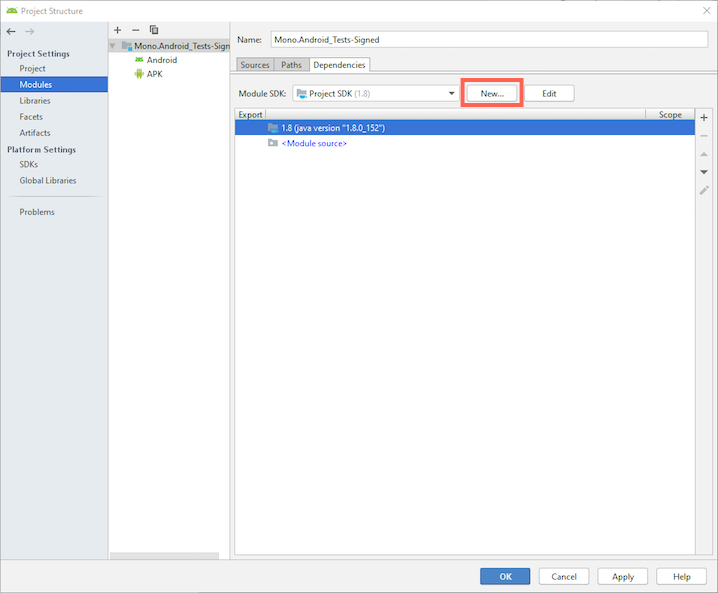
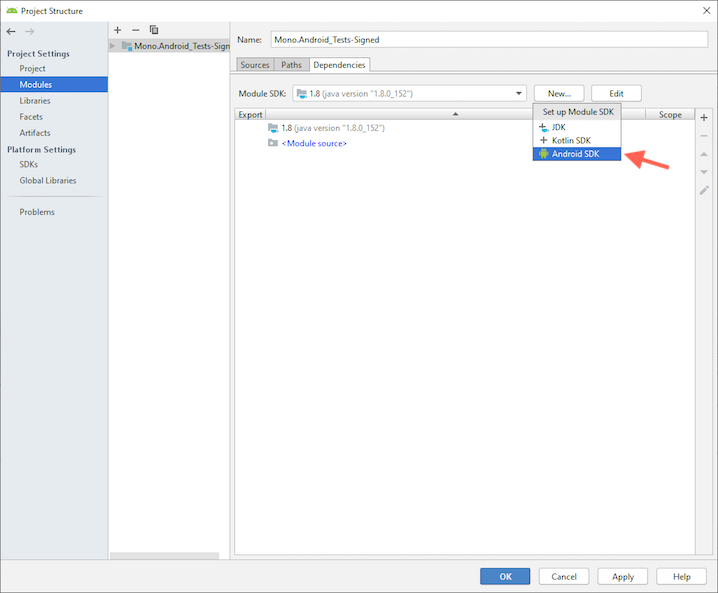
[docs] Save DevelopmentTips updates draft

diff --git a/Documentation/workflow/DevelopmentTips.md b/Documentation/workflow/DevelopmentTips.md
@@ -78,28 +78,34 @@ it on a particular device.
     **Profile or debug APK** on the start window or the **File > Profile or
     Debug APK** menu item.
 
-    ![Profile or debug in the Android Studio start window](../images/android-studio-attach-debugger.png)
+    ![Profile or debug in the Android Studio start
+      window](../images/android-studio-start-window.png)
 
  3. If you skipped the **Android Studio Setup Wizard**, navigate to **File >
     Project Structure > Modules > Mono.Android_Tests-Signed > Dependencies**,
     click **New > Android SDK** next to the **Module SDK**.
 
-    ![New SDK in the Android Studio Project Structure Modules Dependencies window](../images/android-studio-modules-dependencies.png)
+    ![New SDK in the Android Studio Project Structure Modules Dependencies
+      window](../images/android-studio-modules-dependencies.png)
 
     Select the Android SDK folder you're using with Xamarin.Android, and then
     under **Build target**, pick the appropriate Android API to match the APK,
     click **OK**, and then **OK** again.
 
+    ![Create New Android SDK window in Android
+      Studio](../images/android-studio-create-new-android-sdk.png)
+
  4. If an **Indexing** status message appears at the bottom of the Android
-nip   Studio window, wait for it to complete.
+    Studio window, wait for it to complete.
 
  5. Start the app, for example by launching it with or without managed debugging
     from Visual Studio, or by tapping the app on the device.
 
  6. In Android Studio, select **Run > Attach Debugger to Android Process** (at
-    the bottom of the **Run** menu).
+    the bottom of the **Run** menu), or click the corresponding toolbar item.
 
-    ![Attach Debugger to Android Process in Android Studio Run menu](../images/android-studio-attach-debugger.png)
+    ![Attach Debugger to Android Process in Android Studio Run
+      menu](../images/android-studio-attach-debugger.png)
 
  7. Set the **Debugger** to **Native**, select the running app, and click
     **OK**.
@@ -118,11 +124,17 @@ nip   Studio window, wait for it to complete.
 
         (lldb) process handle -p true -n true -s false SIGXCPU SIG33 SIG35 SIGPWR SIGTTIN SIGTTOU SIGSYS
 
-    ![LLDB process handle command in Android Studio LLDB command prompt](../images/android-studio-lldb-no-stop-signals.png)
+    ![LLDB process handle command in Android Studio LLDB command
+      prompt](../images/android-studio-lldb-no-stop-signals.png)
 
 [android-studio]: https://developer.android.com/studio/
 
 ## Adding debug symbols for the default `libmonosgen-2.0`
+
+### Option A: Add the `libmonosgen-2.0.d.so` with symbols as an `@(AndroidNativeLibrary)`
+
+Note: These steps assume that **Android Options > Use Shared Runtime** is
+enabled in the Visual Studio project property pages.
 
  1. Find the Xamarin.Android version you are debugging on
     <https://github.com/xamarin/xamarin-android/tags>, and click that version to
@@ -136,73 +148,124 @@ nip   Studio window, wait for it to complete.
 
  4. Extract the `libmonosgen-2.0.d.so` files from the bundle.  For example, run:
 
-        $ unzip bundle*.zip '*libmonosgen-2.0.d.so'
+        $ unzip bundle*.zip '**libmonosgen-2.0.d.so'
 
- 5. Add the appropriate architecture of `libmonosgen-2.0` into LLDB, using a
-    command similar to:
+    (On Windows, the Git Bash command prompt includes the `unzip` command, so
+    that's one easy way to complete this step.)
 
-        (lldb) target modules add ~/Downloads/lib/xamarin.android/xbuild/Xamarin/Android/lib/armeabi-v7a/libmonosgen-2.0.d.so
+ 5. Add the appropriate architecture of `libmonosgen-2.0.d.so` to
+    the corresponding `lib` subdirectory of the project as described in the
+    [Using Native Libraries][using-native-libraries] documentation.  Then rename
+    the file to `libmonosgen-2.0.so`.  For example, if debugging an arm64-v8a
+    app, add the arm64-v8a version of `libmonosgen-2.0.d.so` to the project as
+    `lib/arm64-v8a/libmonosgen-2.0.so`.
 
- 6. Find the current in-memory address of the `.text` section of the shared
-    runtime version of `libmonosgen-2.0`.  For example, for a 32-bit app, run
+    ![libmonosgen-2.0.so added to the lib/arm64-v8a directory of the
+      Xamarin.Android app project in the Visual Studio Solution
+      Explorer](../images/lib-arm64-v8a-libmonosgen.png)
+
+ 6. Set the **Build Action** of the file to **AndroidNativeLibrary**.
+
+    ![Build Action for libmonosgen-2.0.so set to AndroidNativeLibrary in the
+      Visual Studio Properties
+      window](../images/build-action-android-native-library.png)
+
+ 7. Build, deploy, and run the app, and then attach LLDB.
+
+ 8. If desired, follow the `image lookup` and `settings set --
+    target.source-map` steps from the [Debugging Mono binaries with LLDB
+    guide][lldb-source-map] to allow stepping through the Mono runtime souce.
+
+[using-native-libraries]: https://docs.microsoft.com/xamarin/android/platform/native-libraries
+[lldb-source-map]: https://www.mono-project.com/docs/debug+profile/debug/lldb-source-map/
+
+### Option B: Manually load the `libmonosgen-2.0.d.so` with symbols into LLDB
+
+ 1. Download and extract the `libmonosgen-2.0.d.so` files as described for
+    Option A.
+
+ 2. After attaching to the app with LLDB, add the appropriate architecture of
+    `libmonosgen-2.0.d.so` into LLDB, using a command similar to:
+
+        (lldb) image add ~/Downloads/lib/xamarin.android/xbuild/Xamarin/Android/lib/arm64-v8a/libmonosgen-2.0.d.so
+
+ 3. Find the current in-memory address of the `.text` section of the shared
+    runtime version of `libmonosgen-2.0`.  For example, for a 64-bit app, run
     the following command:
 
-        (lldb) target modules dump sections libmonosgen-32bit-2.0.so
+        (lldb) image dump sections libmonosgen-64bit-2.0.so
 
     Look for the row of the table that shows "code" as the "Type":
-
         SectID     Type             Load Address                             Perm File Off.  File Size  Flags      Section Name
         ---------- ---------------- ---------------------------------------  ---- ---------- ---------- ---------- ----------------------------
-        0x0000000d code             [0x00000000a39e4c90-0x00000000a3cb51ec)  r-x  0x0001ec90 0x002d055c 0x00000006 libmonosgen-32bit-2.0.so..text
+        0x0000000a code             [0x00000071106c4e80-0x0000007110932674)  r-x  0x0002ee80 0x0026d7f4 0x00000006 libmonosgen-64bit-2.0.so..text
 
- 7. Now load the full `libmonosgen-2.0.d.so` using the same starting address for
+ 4. Now load the full `libmonosgen-2.0.d.so` using the same starting address for
     the `.text` section:
 
-        (lldb) target modules load -f libmonosgen-2.0.d.so .text 0x00000000a39e4c90
+        (lldb) image load -f libmonosgen-2.0.d.so .text 0x00000071106c4e80
 
-## Using a custom `libmonosgen-2.0`
+## Using a custom `libmonosgen-2.0.so`
 
-### Option 1: Use the `.__override__` update directory
+### Option A: Add the custom `libmonosgen-2.0.so` as an `@(AndroidNativeLibrary)`
 
- 1. Push the new `libmonosgen-2.0` into the application's update directory:
+Use the same strategy described above for Option A of adding debug symbols.
+In short:
+
+ 1. Add the appropriate architecture of the custom `libmonosgen-2.0.so` to
+    the corresponding `lib` subdirectory of the project as described in the
+    [Using Native Libraries][using-native-libraries] documentation.  For
+    example, if debugging an arm64-v8a app, add the arm64-v8a version of the
+    custom `libmonosgen-2.0.so` to the project as
+    `lib/arm64-v8a/libmonosgen-2.0.so`.
+
+ 2. Set the **Build Action** of the file to **AndroidNativeLibrary**.
+
+### Option B: Use the `.__override__` update directory
+
+ 1. Push the new `libmonosgen-2.0.so` into the application's update directory:
 
         $ adb push libmonosgen-2.0.so \
             /data/local/tmp/ &&
           adb shell run-as Mono.Android_Tests cp /data/local/tmp/libmonosgen-2.0.so \
             /data/data/Mono.Android_Tests/files/.__override__/
 
- 2. In this case, LLDB shows the in-memory address of the whole file instead of
-    the individual sections.  For example, run:
+ 2. Build, deploy, and run the app, and then attach LLDB.
 
-        (lldb) target modules dump sections libmonosgen-2.0.so
+ 3. Find the current in-memory address of the `.text` section of the custom
+    `libmonosgen-2.0.so`.  For example, for a 64-bit app, run the following
+    command:
 
-    And this time, look at just the table header:
+         (lldb) image dump sections libmonosgen-2.0.so
 
-        Sections for '/data/data/Mono.Android_Tests/files/.__override__/libmonosgen-2.0.so(0x00000000a39c6000)' (arm):
+    In this case, LLDB shows the in-memory address of the whole file instead of
+    the individual sections, so look at just the table header:
+
+        Sections for '\data\data\Mono.Android_Tests\files\.__override__\libmonosgen-2.0.so(0x00000071106d1000)' (aarch64):
           SectID     Type             Load Address                             Perm File Off.  File Size  Flags      Section Name
           ---------- ---------------- ---------------------------------------  ---- ---------- ---------- ---------- ----------------------------
 
- 3. Re-load your custom `libmonosgen-2.0` into LLDB.  (It seems LLDB does not
+ 4. Re-add the custom `libmonosgen-2.0.so` into LLDB.  (It seems LLDB does not
     automatically handle downloading the library and loading the symbols from it
-    when the library is located in the `.__override__` directory.)  Note that
-    you will need to use a different "dummy" file name for this step to avoid a
+    when the library is located in the `.__override__` directory.)  Note that you
+    will need to use a different "dummy" file name for this step to avoid a
     conflict with the module that is already loaded.  So the LLDB command might
     look similar to:
 
-        (lldb) target modules add ~/Desktop/libmonosgen-2.0.so-copy
+        (lldb) image add ~/Desktop/libmonosgen-2.0.so-copy
 
- 4. Now load the `libmonosgen-2.0.so-copy`, this time providing a `-s` "slide"
-    option to indicate the whole file offset:
+ 5. Load the `libmonosgen-2.0.so-copy`, providing a `-s` "slide" option to
+    indicate the memory offset of the whole file:
 
-        (lldb) target modules load -f libmonosgen-2.0.d.so -s 0x00000000a39c6000
+        (lldb) image load -f libmonosgen-2.0.so-copy -s 0x00000071106d1000
 
 ## Attaching GDB by hand
 
-These steps are generally considered deprecated in favor of LLDB as of
-[#1021][pull-1021], but they might be helpful for quick testing if (a) LLDB
-shows an unexpected behavior, (b) you already have the Android NDK installed, or
-(c) a customer has the Android NDK installed and prefers not to install Android
-Studio or the command line LLDB tools.
+These steps are generally considered deprecated in favor of LLDB as of [GitHub
+PR 1021][pull-1021], but they might be helpful if (a) LLDB shows an unexpected
+behavior, (b) you already have the Android NDK installed, or (c) a customer has
+the Android NDK installed and prefers not to install Android Studio or the
+command line LLDB tools.
 
  1. Add the appropriate architecture of `gdbserver` to the application's data
     directory.  For example, if debugging an arm64-v8a app:
@@ -262,15 +325,15 @@ These steps use a Unix domain socket rather than a TCP port to match what the
 steps do.  The advantage of the Unix domain socket is that it works regardless
 of whether the app has the `INTERET` permission enabled.  (This isn't too
 important for Xamarin.Android apps because Xamarin.Android apps have the
-`INTERNET` permission enabled by default in the Debug configuration to enable
-the managed debugger connection.)
+`INTERNET` permission enabled by default in the Debug configuration for the
+managed debugger connection.)
 
-The old `<_Gdb/>` MSBuild target includes a few refinements beyond these manual
-steps.  It pre-downloads the `app_process*` executable and system libraries from
-the device to a local `gdb-symbols` directory, and it adds the native libraries
-from the shared runtime (if applicable) and the project's APK to that directory.
-Then it runs `gdb` commands similar to the following before attaching to the
-app:
+The old `<_Gdb/>` MSBuild target includes a few refinements
+beyond these manual steps.  It pre-downloads the `app_process*` executable and
+system libraries from the device to a local `gdb-symbols` directory, and it adds
+the native libraries from the shared runtime (if applicable) and the project's
+APK to that directory.  Then it runs `gdb` commands similar to the following
+before attaching to the app:
 
     set solib-search-path ./gdb-symbols
     file ./gdb-symbol/app_process
